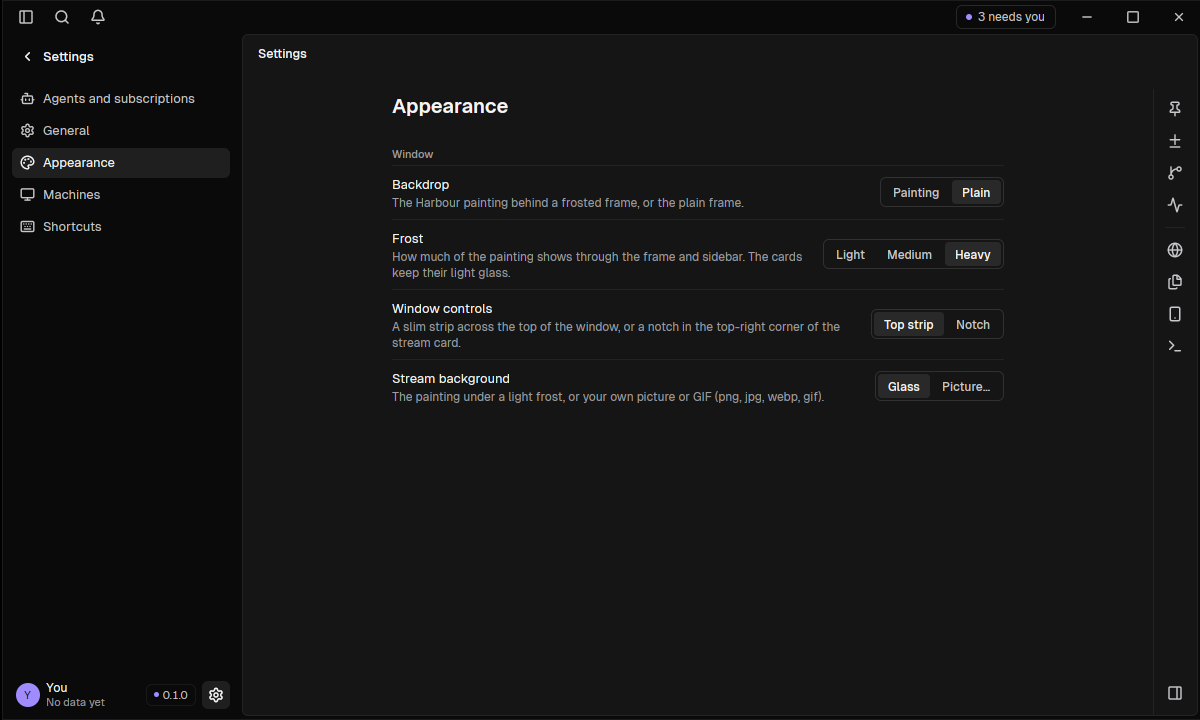
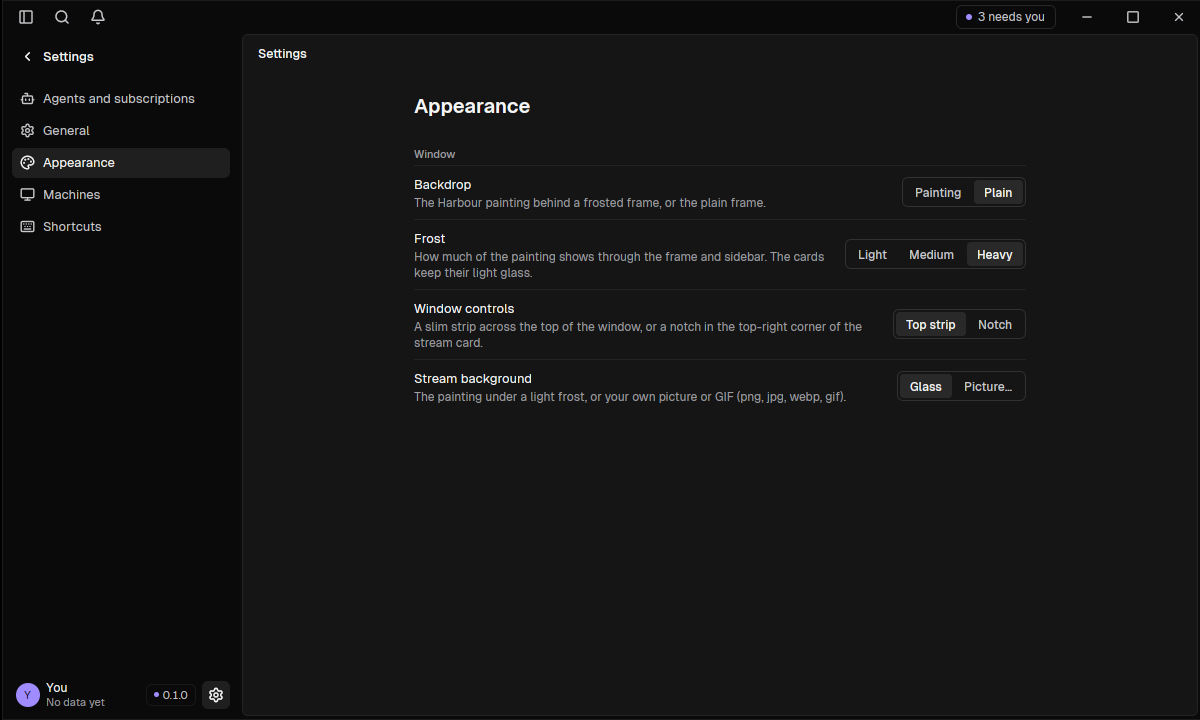
The right rail belongs to an open stream: hidden in Settings and on the New stream screen
Claude-Session: https://claude.ai/code/session_01LKPD2KXjziL7eJBaHYXU81

diff --git a/crates/app/src/shell.rs b/crates/app/src/shell.rs
@@ -336,6 +336,13 @@ pub(crate) struct Cauldron {
 }
 
 impl Cauldron {
+    /// The quick-button rail belongs to a stream (Charles, 20 Nov): shown while a stream or a
+    /// familiar is open, or while the support card is open (its rail is how you fold it), never on
+    /// the New stream screen or in Settings.
+    pub(crate) fn rail_on(&self, support_open: bool) -> bool {
+        support_open || (self.settings.is_none() && (self.open.is_some() || self.familiar.is_some()))
+    }
+
     /// The window's first state. Debug builds only: `CAULDRON_FIXTURE_AGENTS=n` opens a thread with
     /// n agent tabs, for screenshots until UI4 brings real agents from core.
     pub(crate) fn launch(cx: &mut Context<Self>) -> Self {
@@ -1532,7 +1539,7 @@ impl Render for Cauldron {
         // and the row shows a window of 72px tabs. No figures (Charles, 13 Nov).
         let mut tab_row = None;
         // A familiar's tabs are its own folder tabs on its stream card (familiar.rs).
-        let fam = self.familiar.is_some().then(|| self.familiar_strips(s.main, s.support.is_none(), pal, now, reduce, window, cx));
+        let fam = self.familiar.is_some().then(|| self.familiar_strips(s.main, s.support.is_none() && self.rail_on(false), pal, now, reduce, window, cx));
         if let Some(anchor_label) = self.coordinator.clone().filter(|_| self.familiar.is_none()) {
             let focus = self.tab_focus.get_or_insert_with(|| cx.focus_handle()).clone();
             let label_w = {
@@ -1772,7 +1779,7 @@ impl Render for Cauldron {
             );
         }
         let new_screen = self.open.is_none() && self.active == 0 && self.settings.is_none() && self.familiar.is_none();
-        let rail_here = s.support.is_none();
+        let rail_here = s.support.is_none() && self.rail_on(false);
         // The body under the header, clear of the rail when it is in this card.
         let body_w = s.main.w - 2.0 - if rail_here { metric::RAIL_W } else { 0.0 };
         let body_h = s.main.h - 2.0 - metric::HEAD_H - if new_screen { STAGE_H } else { 0.0 };
@@ -2095,7 +2102,7 @@ impl Render for Cauldron {
         // ---- the quick-button rail, inside the rightmost card's right edge (the board's `.irail`):
         // Highlights, Changes, Git, Trace, a rule, Browser, Files, Simulator, Terminal; the fold
         // toggle at the bottom. A short accent mark shows a panel that has a tab.
-        {
+        if self.rail_on(s.support.is_some()) {
             let rail_button = |this: &Self, id: (&'static str, usize), p: Panel, cx: &mut Context<Self>| {
                 // The mark shows the open panel only, not every panel that has a tab (Charles, 20 Nov).
                 let has_tab = this.drawer == Some(p);
@@ -2498,6 +2505,8 @@ mod tests {
                 sidebar_open: state.sidebar_open,
                 drawer: state.support_open.then_some(Panel::Highlights),
                 terminal: state.dock_open,
+                // A stream is open, so its rail shows.
+                open: Some("s".into()),
                 ..Cauldron::new()
             });
             cx.simulate_window_resize(handle.into(), size(px(W), px(H)));
@@ -2535,7 +2544,7 @@ mod tests {
     fn the_support_card_has_its_own_tabs_and_a_plus_menu(cx: &mut TestAppContext) {
         cx.update(gpui_kit::init);
         cx.update(|cx| cx.set_reduce_motion(true));
-        let handle = cx.add_window(|_, _| Cauldron::new());
+        let handle = cx.add_window(|_, _| Cauldron { open: Some("s".into()), ..Cauldron::new() });
         cx.simulate_window_resize(handle.into(), size(px(W), px(H)));
         // The shell moves on the wall clock, so start each check from rest.
         let rest = |cx: &mut TestAppContext| handle.update(cx, |c, _, _| c.motion = Default::default()).unwrap();
@@ -2602,7 +2611,7 @@ mod tests {
     fn icon_buttons_have_names_and_tooltips(cx: &mut TestAppContext) {
         cx.update(gpui_kit::init);
         cx.update(|cx| cx.set_reduce_motion(true));
-        let handle = cx.add_window(|_, _| Cauldron::new());
+        let handle = cx.add_window(|_, _| Cauldron { open: Some("s".into()), ..Cauldron::new() });
         cx.simulate_window_resize(handle.into(), size(px(W), px(H)));
         let ms = std::time::Duration::from_millis;
         cx.update_window(handle.into(), |_, window, cx| {
@@ -2709,7 +2718,8 @@ mod tests {
             // Core has no stages or usage yet, so usage is an empty state and no stage is current:
             // plain fg3 labels, nothing to click.
             let bar = rect(window, "stage-bar");
-            assert_eq!((bar.x, bar.w, bar.h), (card.x + 1.0, s.rail.x - card.x - 1.0, 32.0), "stage bar card-wide, clear of the rail");
+            assert_eq!((bar.x, bar.w, bar.h), (card.x + 1.0, card.w - 2.0, 32.0), "stage bar card-wide: the rail is for an open stream, not the New stream screen");
+            assert!(window.try_find("rail").is_none(), "no right rail on the New stream screen (Charles, 20 Nov)");
             assert_eq!(bar.bottom(), card.bottom() - 1.0, "at the card's bottom, inside its border");
             assert_eq!(window.find("stage-usage").label(), Some("No usage data yet"));
             let mut last = rect(window, "stage-usage").right();

diff --git a/crates/app/src/shell/settings.rs b/crates/app/src/shell/settings.rs
@@ -405,6 +405,7 @@ mod tests {
             assert_eq!(window.find("settings-empty").label(), Some("Machines settings arrive in a later milestone."));
             window.click(("settings-page", 2usize), cx);
             assert_eq!(window.find(("appearance", 0usize)).label(), Some("Backdrop"));
+            assert!(window.try_find("rail").is_none(), "no right rail in Settings: it belongs to an open stream");
             // Windows only (Charles, 20 Nov): the top strip by default, or the notch.
             let windows = crate::shell::platform() != cauldron_chrome::layout::Platform::Mac;
             assert_eq!(window.try_find(("appearance", 3usize)).is_some(), windows, "Window controls is a Windows setting");

diff --git a/docs/screenshots/top-bar/README.md b/docs/screenshots/top-bar/README.md
@@ -18,3 +18,7 @@ Before shots are round 1's baseline (notch, one tray under New stream, dots).
 
 Limits: not run on a real Windows PC; the notch option needs an app restart-free toggle but I only drove it by
 saving the pref and relaunching in the capture; the figure is a still frame; "N needs you" counts streams only.
+
+Round 3: the right-hand quick-button rail now shows only while a stream (or familiar) is open, or while the support
+card is open (its rail is how you fold it). It is gone in Settings (`after-appearance-window-controls.png`) and on the
+New stream screen (`after-new-stream-no-rail.png`).
